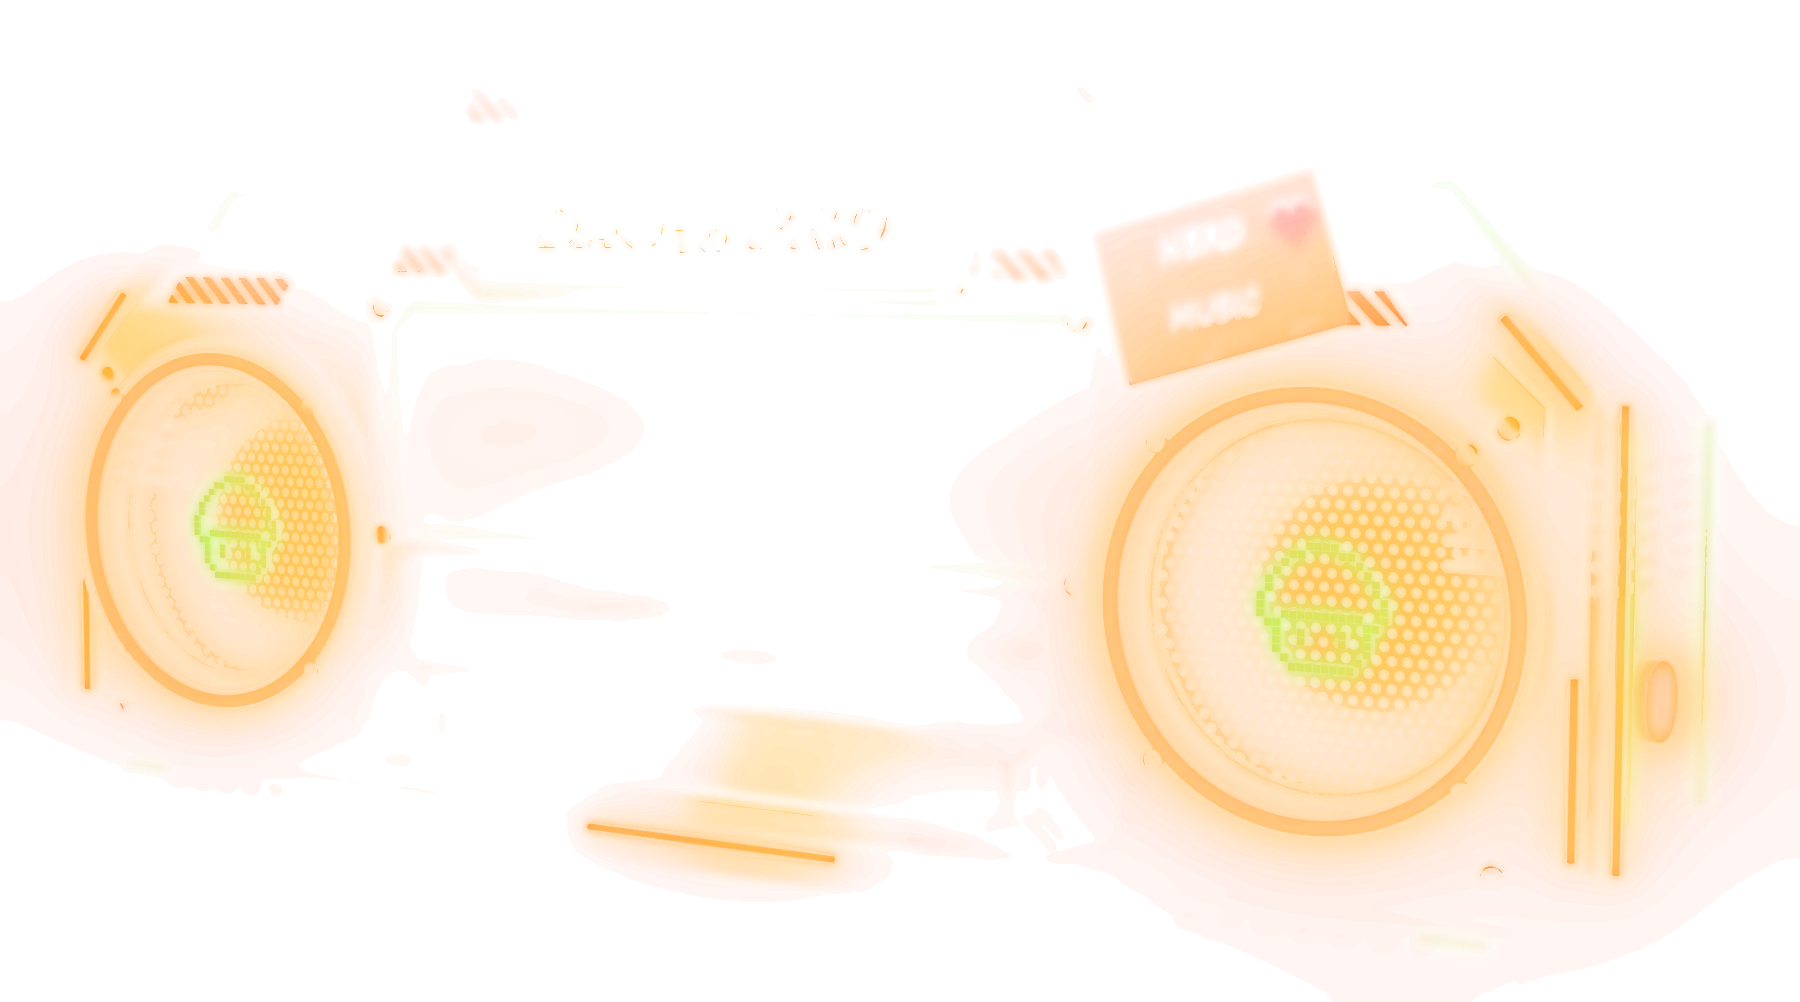
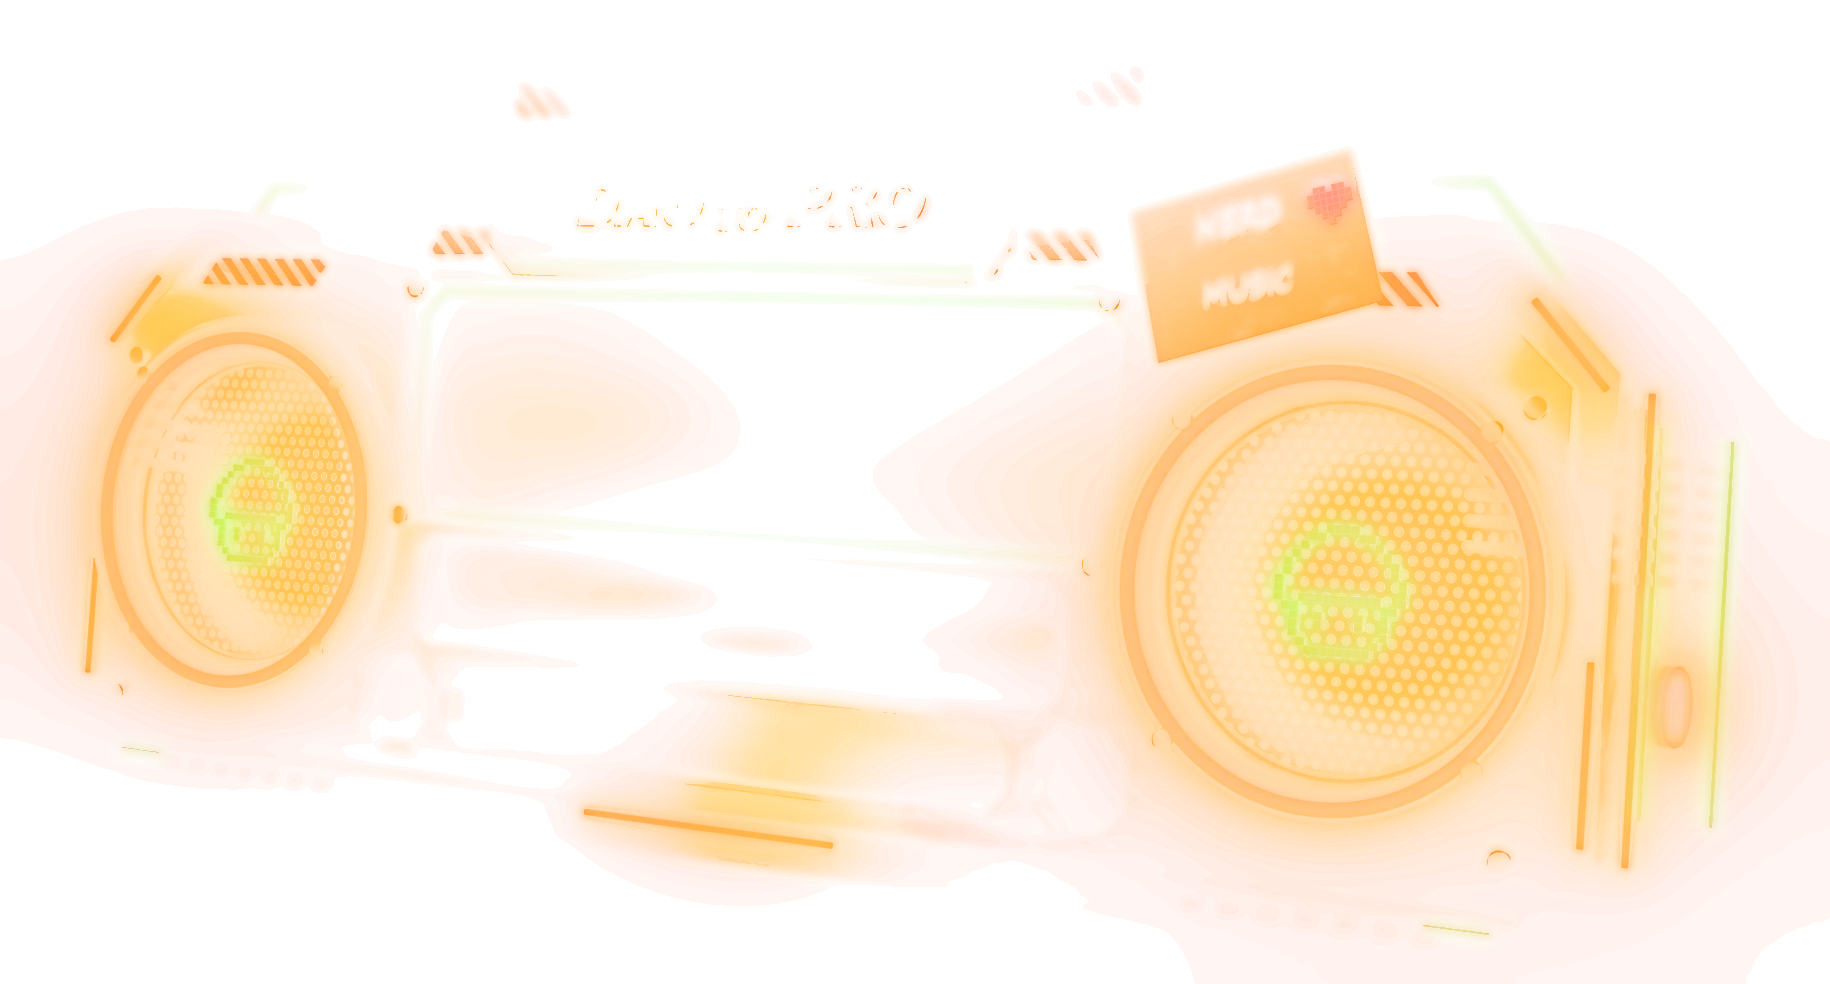
NERD RADIO: Bodenring entfernt, Gerät leuchtet sich selbst an und lehnt leicht nach hinten

diff --git a/dau-to-pro/nerd-radio/layout.css b/dau-to-pro/nerd-radio/layout.css
@@ -1,22 +1,22 @@
 /* Generiert von tools/nerd-radio/build_boombox.py – nicht von Hand ändern. */
-.nr-device{aspect-ratio:1800/1002;--nr-face:"0.03331 0.07696 0.91765 0.01516 0.90590 1.00633 0.03914 0.78392";--nr-roll:0deg}
-.nr-speaker--l{left:6.027%;top:35.031%;width:14.700%;height:36.182%}
+.nr-device{aspect-ratio:1830/984;--nr-face:"0.06271 0.06648 0.92512 0.00704 0.89320 1.01800 0.03367 0.78560";--nr-roll:0deg}
+.nr-speaker--l{left:6.261%;top:33.973%;width:15.600%;height:37.028%}
 .nr-speaker--l .nr-speaker__cone{background-image:url(cone-0.webp)}
-.nr-speaker--r{left:62.447%;top:38.398%;width:23.089%;height:45.966%}
+.nr-speaker--r{left:61.772%;top:37.416%;width:23.852%;height:47.203%}
 .nr-speaker--r .nr-speaker__cone{background-image:url(cone-1.webp)}
-.nr-key[data-radio-prev]{left:21.433%;top:54.537%;width:7.745%;height:13.234%;background-image:url(key-prev-up.webp)}
+.nr-key[data-radio-prev]{left:21.542%;top:53.485%;width:7.931%;height:13.561%;background-image:url(key-prev-up.webp)}
 .nr-key[data-radio-prev]:active,.nr-key[data-radio-prev].is-down{background-image:url(key-prev-down.webp)}
-.nr-key[data-radio-stop]{left:27.559%;top:55.416%;width:8.026%;height:13.499%;background-image:url(key-stop-up.webp)}
+.nr-key[data-radio-stop]{left:27.575%;top:54.376%;width:8.225%;height:13.837%;background-image:url(key-stop-up.webp)}
 .nr-key[data-radio-stop]:active,.nr-key[data-radio-stop].is-down{background-image:url(key-stop-down.webp)}
-.nr-key[data-radio-play]{left:34.014%;top:56.341%;width:9.733%;height:14.029%;background-image:url(key-play-up.webp)}
+.nr-key[data-radio-play]{left:33.932%;top:55.315%;width:9.922%;height:14.385%;background-image:url(key-play-up.webp)}
 .nr-key[data-radio-play]:active,.nr-key[data-radio-play].is-down{background-image:url(key-play-down.webp)}
-.nr-key[data-radio-next]{left:42.221%;top:57.519%;width:8.759%;height:14.140%;background-image:url(key-next-up.webp)}
+.nr-key[data-radio-next]{left:42.026%;top:56.511%;width:8.959%;height:14.506%;background-image:url(key-next-up.webp)}
 .nr-key[data-radio-next]:active,.nr-key[data-radio-next].is-down{background-image:url(key-next-down.webp)}
-.nr-key[data-radio-shuffle]{left:49.480%;top:58.562%;width:9.155%;height:14.460%;background-image:url(key-shuffle-up.webp)}
+.nr-key[data-radio-shuffle]{left:49.195%;top:57.570%;width:9.339%;height:14.841%;background-image:url(key-shuffle-up.webp)}
 .nr-key[data-radio-shuffle]:active,.nr-key[data-radio-shuffle].is-down{background-image:url(key-shuffle-down.webp)}
-.nr-key[data-radio-mode]{left:18.099%;top:64.736%;width:6.231%;height:14.015%;background-image:url(key-mode-up.webp)}
+.nr-key[data-radio-mode]{left:17.742%;top:63.986%;width:6.473%;height:14.439%;background-image:url(key-mode-up.webp)}
 .nr-key[data-radio-mode]:active,.nr-key[data-radio-mode].is-down{background-image:url(key-mode-down.webp)}
-.nr-key[data-radio-list]{left:55.536%;top:71.835%;width:7.641%;height:15.786%;background-image:url(key-list-up.webp)}
+.nr-key[data-radio-list]{left:54.740%;top:71.254%;width:7.888%;height:16.321%;background-image:url(key-list-up.webp)}
 .nr-key[data-radio-list]:active,.nr-key[data-radio-list].is-down{background-image:url(key-list-down.webp)}
 .nr-device[data-state=playing] .nr-key[data-radio-play]{background-image:url(key-play-on-up.webp)}
 .nr-device[data-state=playing] .nr-key[data-radio-play]:active,.nr-device[data-state=playing] .nr-key[data-radio-play].is-down{background-image:url(key-play-on-down.webp)}

diff --git a/dau-to-pro/nerd-radio.js b/dau-to-pro/nerd-radio.js
@@ -52,7 +52,7 @@
     status: $('[data-radio-status]'), playlist: $('[data-radio-playlist]'), trackList: $('[data-radio-tracks]'),
     shuffleInd: $('[data-radio-shuffle-ind]'), loopInd: $('[data-radio-loop-ind]'), canvas: $('[data-radio-viz]'),
     cones: [...root.querySelectorAll('[data-radio-cone]')], faces: [...root.querySelectorAll('[data-radio-face]')],
-    gold: $('[data-radio-light="gold"]'), cyan: $('[data-radio-light="cyan"]'), floor: root.parentElement.querySelector('.nr-floor')
+    gold: $('[data-radio-light="gold"]'), cyan: $('[data-radio-light="cyan"]')
   };
   const pen = ui.canvas.getContext('2d');
   const reduced = matchMedia('(prefers-reduced-motion: reduce)');
@@ -335,14 +335,13 @@
   function applyBass() {
     const calm = reduced.matches;
     ui.cones.forEach(c => { c.style.transform = calm || !bass ? '' : `scale(${(1 + bass * 0.025).toFixed(3)})`; });
-    const gold = calm ? 0.78 : 0.5 + 0.5 * Math.min(1, bass * 1.35);
-    const cyan = calm ? 0.8 : 0.55 + 0.45 * Math.min(1, treble * 1.8);
+    const gold = calm ? 0.85 : 0.62 + 0.38 * Math.min(1, bass * 1.35);
+    const cyan = calm ? 0.85 : 0.65 + 0.35 * Math.min(1, treble * 1.8);
     const key = gold.toFixed(2) + cyan.toFixed(2);
     if (key === lastLight) return;
     lastLight = key;
     if (ui.gold) ui.gold.style.opacity = gold.toFixed(2);
     if (ui.cyan) ui.cyan.style.opacity = cyan.toFixed(2);
-    if (ui.floor) ui.floor.style.opacity = (0.65 + 0.35 * (gold - 0.5) * 2).toFixed(2);
   }
 
   /* Display und Regler auf die schräge Front legen: Homographie aus den vier von Blender

diff --git a/dau-to-pro/nerd-radio.css b/dau-to-pro/nerd-radio.css
@@ -33,15 +33,6 @@
 .nr-chassis{position:absolute;inset:0;width:100%;height:100%;display:block;pointer-events:none;user-select:none}
 .nr-sr{position:absolute;width:1px;height:1px;margin:-1px;overflow:hidden;clip-path:inset(50%);white-space:nowrap}
 
-/* Boden: Schatten, Lichtring und weiche Reflexion */
-.nr-floor{position:absolute;z-index:-1;will-change:opacity;left:-2%;right:-2%;bottom:-1%;height:20%;pointer-events:none;
-  background:
-    radial-gradient(50% 42% at 50% 48%,transparent 0 80%,#ffb22acc 86%,#ffb22a33 92%,transparent 98%),
-    radial-gradient(46% 34% at 50% 40%,#000d 0 55%,transparent 100%),
-    radial-gradient(30% 40% at 22% 60%,#22dcf52e,transparent 70%),
-    radial-gradient(30% 40% at 78% 60%,#22dcf52e,transparent 70%),
-    radial-gradient(22% 30% at 50% 58%,#ffb22a40,transparent 72%)}
-
 /* ---------- Lautsprecher: Gitter und Pilz als eigene Ebene, die zum Bass atmet ---------- */
 .nr-speaker{position:absolute;z-index:1;border-radius:50%}
 .nr-speaker__cone{position:absolute;inset:0;border-radius:50%;background:center/100% 100% no-repeat;will-change:transform}

diff --git a/tools/nerd-radio/build_boombox.py b/tools/nerd-radio/build_boombox.py
@@ -13,7 +13,7 @@ Koordinaten: Entwurf im 1000 x 450 Layoutraster (x nach rechts, y nach unten),
 der Korpus reicht nach hinten (+Y). Kamera blickt von vorn (-Y) leicht von oben.
 """
 import bpy, bmesh, math, json, os, sys
-from mathutils import Vector
+from mathutils import Vector, Matrix
 from bpy_extras.object_utils import world_to_camera_view
 
 argv = sys.argv[sys.argv.index('--') + 1:] if '--' in sys.argv else []
@@ -447,8 +447,10 @@ RIM = {'cyan': mat_simple('rim_c', CYAN, emit=CYAN, strength=0.75), 'orange': ma
 world = bpy.data.worlds.new('w'); scene.world = world; wn = nodes(world)
 bg = wn.nodes.new('ShaderNodeBackground'); bg.inputs['Color'].default_value = (0.012, 0.016, 0.022, 1); bg.inputs['Strength'].default_value = 1.0
 wo = wn.nodes.new('ShaderNodeOutputWorld'); wn.links.new(bg.outputs[0], wo.inputs[0])
+# Studiolicht nur noch als schwaches Grundlicht: beleuchtet wird das Gerät von seinen eigenen Leuchten
+STUDIO = 0.22
 def light(name, loc, power, size, color=(1, 1, 1), target=(0, 0, 0)):
-    ld = bpy.data.lights.new(name, 'AREA'); ld.energy = power; ld.size = size; ld.color = color
+    ld = bpy.data.lights.new(name, 'AREA'); ld.energy = power * STUDIO; ld.size = size; ld.color = color
     ob = bpy.data.objects.new(name, ld); scene.collection.objects.link(ob); ob.location = loc
     ob.rotation_euler = (Vector(target) - Vector(loc)).to_track_quat('-Z', 'Y').to_euler()
     ob.visible_camera = False; ob.visible_glossy = True
@@ -477,6 +479,9 @@ yaw = math.radians(34)
 roll = 0.0
 cam.location = (dist * math.cos(tilt) * math.sin(yaw), -dist * math.cos(tilt) * math.cos(yaw), dist * math.sin(tilt) + 0.15)
 cam.rotation_euler = (math.pi / 2 - tilt, roll, yaw)
+# Gerät leicht nach hinten gekippt (Oberkante weiter weg): Kamera um die Querachse des Geräts schwenken
+lean = math.radians(7)
+cam.matrix_world = Matrix.Rotation(lean, 4, 'X') @ Matrix.Translation(cam.location) @ cam.rotation_euler.to_matrix().to_4x4()
 W, H = (1100, 560) if PREVIEW else (2200, 1120)
 scene.render.resolution_x, scene.render.resolution_y = W, H
 cam_d.sensor_fit = 'HORIZONTAL'
@@ -554,7 +559,7 @@ def emit(group_factors):
             m.node_tree.nodes['Principled BSDF'].inputs['Emission Strength'].default_value = BASE_EMIT[m.name] * group_factors.get(g, 0)
 # Lichtquellen an den Röhren: werfen das Neonlicht sichtbar auf Metall, Gitter und Kanten
 def glow_lamp(name, loc, power, radius, color, group):
-    ld = bpy.data.lights.new(name, 'POINT'); ld.energy = power; ld.shadow_soft_size = radius; ld.color = color
+    ld = bpy.data.lights.new(name, 'POINT'); ld.energy = power * 2.2; ld.shadow_soft_size = radius; ld.color = color
     ob = bpy.data.objects.new(name, ld); scene.collection.objects.link(ob); ob.location = loc; ob.visible_camera = False
     ob['group'] = group; return ob
 for i, (x, y) in enumerate(SPK):

diff --git a/dau-to-pro/index.php b/dau-to-pro/index.php
@@ -144,7 +144,6 @@ $topicLabels=['subnet'=>'IP & Subnetting','netzwerk'=>'Netzwerke','sicherheit'=>
             <button class="nr-key nr-key--round nr-key--gold-rim" type="button" data-radio-list aria-expanded="false" aria-controls="nr-playlist" aria-label="Playlist öffnen" title="Playlist"><svg viewBox="0 0 24 24" aria-hidden="true"><circle cx="4.5" cy="6" r="2"/><circle cx="4.5" cy="12" r="2"/><circle cx="4.5" cy="18" r="2"/><rect x="9" y="4.8" width="12" height="2.6" rx="1.2"/><rect x="9" y="10.8" width="12" height="2.6" rx="1.2"/><rect x="9" y="16.8" width="12" height="2.6" rx="1.2"/></svg></button>
           </div>
         </div>
-        <div class="nr-floor" aria-hidden="true"></div>
       </div>
     </div>
     </div>
